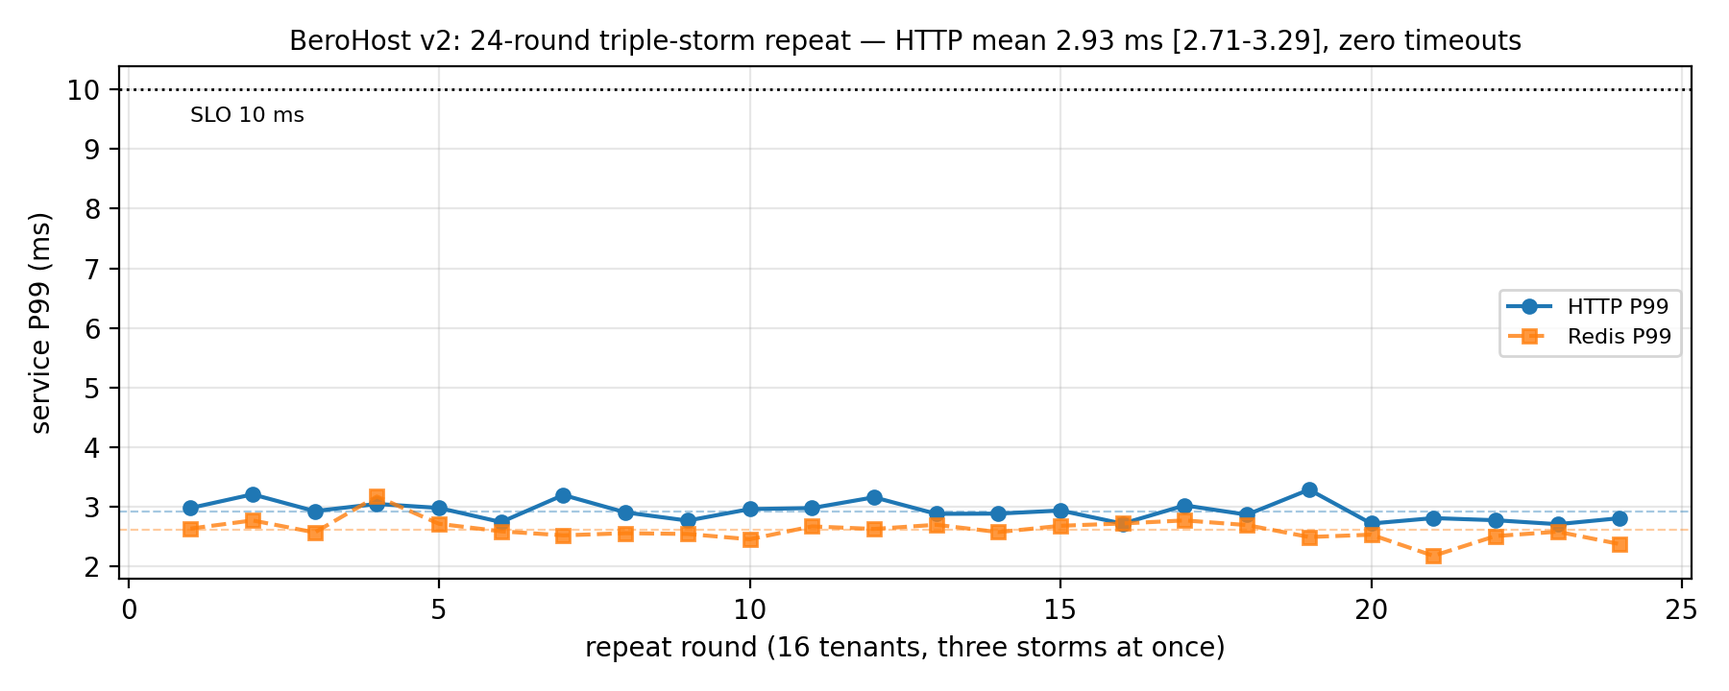
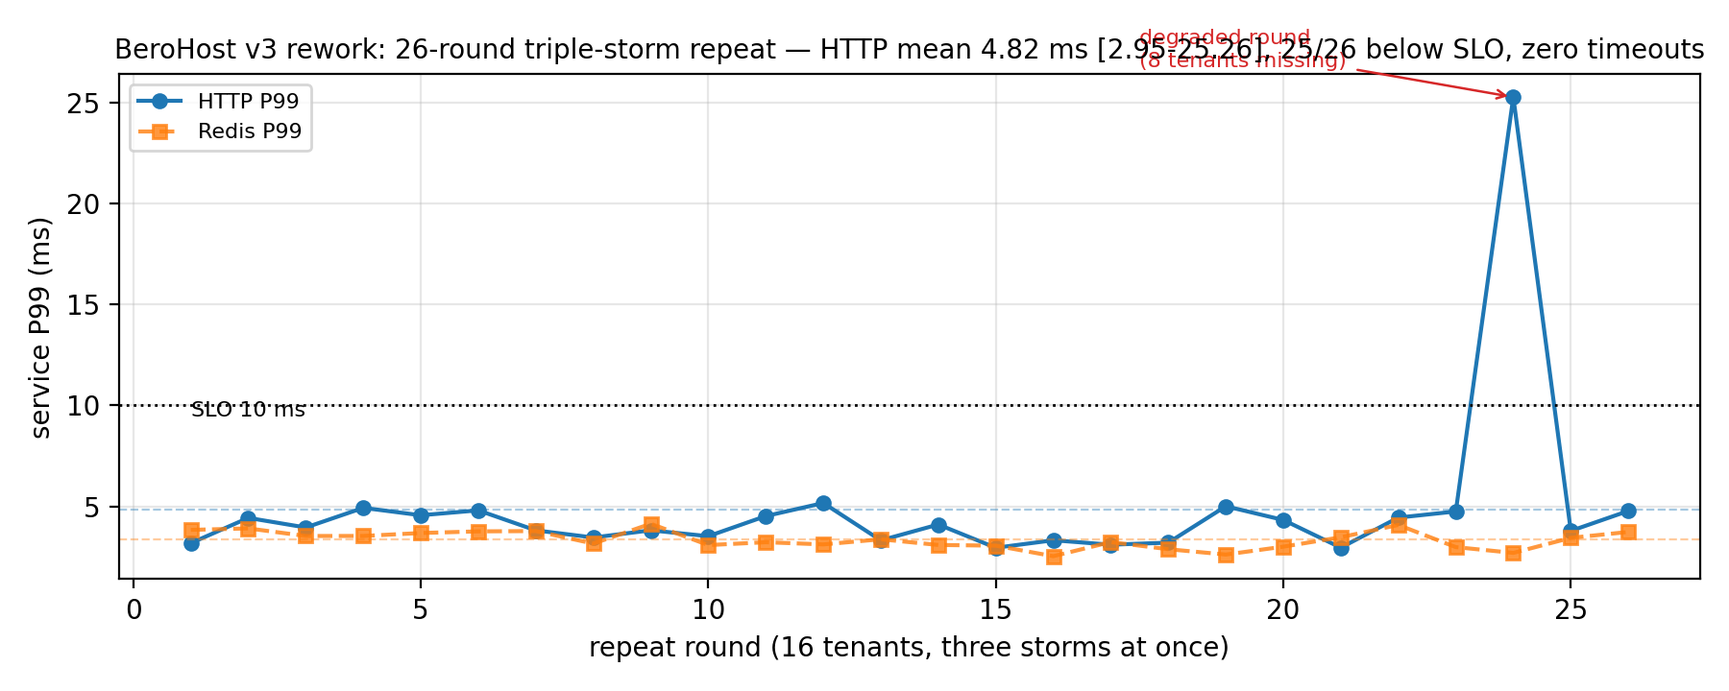
paper update 2026-10-14 08:43

diff --git a/index.html b/index.html
@@ -67,10 +67,10 @@ window.MathJax = {
 <div class="page">
 <header class="paper">
 <h1 class="title">识别、预测、行动：截断需求、相位结构与分域无回归约束下的 VPS 安全密度最大化</h1>
-<div class="subtitle">技术报告 · 初稿 v0.9.5</div>
+<div class="subtitle">技术报告 · 初稿 v0.9.6</div>
 <div class="authors">Kaixiang Nie</div>
 <div class="affil">Fujian Chuanzheng Communications College</div>
-<div class="meta">2026-10-13 · <a href="https://github.com/3257085208/Paper">GitHub</a> · <a href="changelog.html">修订记录</a> · <a href="report.html">汇报版</a> · <a href="report.pptx">汇报 PPT</a> · <a href="paper.pptx">论文 PPT 通读版</a> · 数据快照 v0.9.5</div>
+<div class="meta">2026-10-13 · <a href="https://github.com/3257085208/Paper">GitHub</a> · <a href="changelog.html">修订记录</a> · <a href="report.html">汇报版</a> · <a href="report.pptx">汇报 PPT</a> · <a href="paper.pptx">论文 PPT 通读版</a> · 数据快照 v0.9.6</div>
 </header>
 <section class="abstract"><h2>摘 要</h2><blockquote>本文研究小型 VPS 服务商在<strong>固定容量、有限观测、低运营成本</strong>约束下的资源超售管理问题，把它重塑为三个依次递进的问题。</blockquote>
 <p><strong>识别（Identify）。</strong> 被 CPU 配额截断的需求在用量面板上不可观测：点估计 $q/(1-t)$ 实际等于运行段平均需求，其精确条件为运行段与节流段需求均值相等（需求恒定只是充分条件）；在"持续饱和"假设下存在形状无关的条件性下界 $q(1+t)$，而聚合计数器上<strong>任何估计器都不可能对所有负载无偏</strong>（非可辨识构造）。90 个 cycle（450 台·窗口）的配对实验显示节流校正与真值一致，而"看着用量余量松绑配额"的直觉决策在 30 个独立轮（90 个时间相关 cycle，按轮聚类）中全部违约（90/90）。</p>
@@ -78,7 +78,7 @@ window.MathJax = {
 <p><strong>组织命题。</strong> 安全容量决策的瓶颈在观测能力：截断识别、相位分辨（联合结构）与时间分辨（采样率）三者<strong>各自必要</strong>（§3.6 三个构造性反例）且在我们的目标负载族上合起来充分（经验结论；本设计的准入控制器即该观测集的实现——完整 14 局对决中唯一在随机相位达到有竞争力容量（16–20 台、客户 P5≥70%）的同时把对齐相位保守停在已验证档位（8 台）的策略（对齐 8 台客户 P5≈99%，4 轮阶梯复测））。</p>
 <p><strong>行动（Actuate）。</strong> 把识别与预测组装为完整控制器与<strong>分域无回归</strong>控制堆栈——所谓"无回归"严格限定为三类独立声明：服务侧（SLO 不退化）、客户性能（经验分布不退化，含低尾）、客户配置（可见内存/配额不缩减）；宿主资源节约单独报告，不混入"无回归"：完整 14 局在线对决（7 策略×2 相位、统一到达流与证据）：<strong>相位感知准入是唯一同时做到『随机相位多接（16–20 台；对照保守基线两相位都只卖 8，随机相位白让 2–3×）』与『对齐相位守在已验证档位（8 台）』的策略</strong>；对照的 audible 式与忙率阈值法在同步相位卖到 40 台、客户 P5 崩至 16%——依赖独立性的卷积与平均利用率判据的相位盲区被直接量化；同步 8 台档客户 P5≈99% 达标（4 轮阶梯复测），固定 2× 停在 16 台仅 48.6% 违约；隔离护尾经 SMT/NUMA 拓扑核验为物理核级；内存侧无 balloon 回收三件套（KSM 去重 21.9 GB = 舰队内存 33.4%、空闲页上报、zram）在不降低租户可见资源的前提下抬高密度。全部结论建立在 50/90/24 轮量级复测、嵌套 + 裸金属双测试床与我们自己运营的两台生产宿主上的只读遥测（285 台 VM 配置、vCPU 8.3× 超售）之上，并给出可复现工件与统计认证协议。</p>
 <h2 id="s-本文解决的问题-问题-对策-量化结果">本文解决的问题（问题 → 对策 → 量化结果）</h2>
-<table><thead><tr><th>#</th><th>问题</th><th>现状为什么失灵（实测证据）</th><th>本文解法</th><th>量化结果</th></tr></thead><tbody><tr><td>①</td><td><strong>配额截断了需求</strong>：用量面板 ≠ 真实需求</td><td>"看用量松绑/扩卖"在 7/7 → 90/90 次（30 独立轮）中全部违约</td><td>节流证据点估计 + 可辨识性边界（3.3.1 三命题）+ 持续饱和兜底档</td><td>估计与真值一致（≤9% → 逐轮吻合）；松绑决策被正确否决；消融<strong>聚合误差</strong>：naive −2.31、配额缩放 +0.01（本例因突发恰好封顶而更小）、节流校正 −0.20、满 vCPU +2.70；逐租户：饱和客户两类均精确、阵发客户上整窗 t 稀释使节流法低估（多分辨率修正见第 9 章）</td></tr><tr><td>②</td><td><strong>瞬时重叠/同步突发击穿尾延迟</strong></td><td>平均利用率对相位结构盲：35% 忙碌被压垮、98% 忙碌反而安全</td><td>相位剖面聚合 + 安全容量近似模型 + PPC（联合相位卷积）</td><td>随机安全 <strong>28 台 vs 同步 8 台</strong>（主口径 P5≥70%，4 轮复测）；PPC 预测 4/5 零超接（1 例乐观一档被在线门禁拒止）；iid 卷积被证明全盲</td></tr><tr><td>③</td><td><strong>控制手段选择没有依据</strong></td><td>软优先级被普遍依赖：CPU 权重 100× 服务仍 24 ms、io.weight 无效</td><td>受控对照 → 塑形手册（隔离优先、硬限速、内存双闸）</td><td>隔离：三风暴 28 轮零服务违约；io.max：服务 P99 12.1→2.7 ms；权重/配额证伪</td></tr><tr><td>④</td><td><strong>内存超售与"可用内存不缩"的两难</strong></td><td>balloon 会缩客户可见内存；关 balloon 宿主不回收；swap 是回收税放大器</td><td><strong>无 balloon 三件套</strong>（KSM 去重 / 空闲页上报 / zram）+ 双闸</td><td>KSM 回收 <strong>33.4% 舰队内存</strong>（21.9 GB）；空闲"1GB" VM 宿主实占仅 156–315 MB，<strong>guest 完全不可见</strong></td></tr><tr><td>⑤</td><td><strong>配额税压低客户速度</strong></td><td>粗周期（1 s）配额下客户只有 59% 速率</td><td><strong>微周期配额</strong>（2 ms；内核下界 1 ms）</td><td>同 50% 配额：客户速率 <strong>59% → 80%（+35%）</strong>，服务侧零影响</td></tr><tr><td>⑥</td><td><strong>准入缺乏公平验证与风险口径</strong></td><td>"零违约"常被当作保证（24 轮零违约的 95% 上界仍 11.7%）</td><td>七策略同约束同到达流对决 + Clopper–Pearson 认证协议（试验数明示）</td><td>完整 14 局：ours/ours_p 双相位安全（对齐 8、随机 16–20），util80 随机 28 安全/同步 40 崩（P5 16%）；多轮复测（show4/5）已完成，N=8 客户 P5≈99%</td></tr></tbody></table>
+<table><thead><tr><th>#</th><th>问题</th><th>现状为什么失灵（实测证据）</th><th>本文解法</th><th>量化结果</th></tr></thead><tbody><tr><td>①</td><td><strong>配额截断了需求</strong>：用量面板 ≠ 真实需求</td><td>"看用量松绑/扩卖"在 7/7 → 90/90 次（30 独立轮）中全部违约</td><td>节流证据点估计 + 可辨识性边界（3.3.1 三命题）+ 持续饱和兜底档</td><td>估计与真值一致（≤9% → 逐轮吻合）；松绑决策被正确否决；消融<strong>聚合误差</strong>：naive −2.31、配额缩放 +0.01（本例因突发恰好封顶而更小）、节流校正 −0.20、满 vCPU +2.70；逐租户：饱和客户两类均精确、阵发客户上整窗 t 稀释使节流法低估（多分辨率修正见第 9 章）</td></tr><tr><td>②</td><td><strong>瞬时重叠/同步突发击穿尾延迟</strong></td><td>平均利用率对相位结构盲：35% 忙碌被压垮、98% 忙碌反而安全</td><td>相位剖面聚合 + 安全容量近似模型 + PPC（联合相位卷积）</td><td>随机安全 <strong>28 台 vs 同步 8 台</strong>（主口径 P5≥70%，4 轮复测）；PPC 预测 4/5 零超接（1 例乐观一档被在线门禁拒止）；iid 卷积被证明全盲</td></tr><tr><td>③</td><td><strong>控制手段选择没有依据</strong></td><td>软优先级被普遍依赖：CPU 权重 100× 服务仍 24 ms、io.weight 无效</td><td>受控对照 → 塑形手册（隔离优先、硬限速、内存双闸）</td><td>隔离：三风暴 30 轮中 29 轮零服务违约（1 轮降级状态 25.3 ms，如实报告）；io.max：服务 P99 12.1→2.7 ms；权重/配额证伪</td></tr><tr><td>④</td><td><strong>内存超售与"可用内存不缩"的两难</strong></td><td>balloon 会缩客户可见内存；关 balloon 宿主不回收；swap 是回收税放大器</td><td><strong>无 balloon 三件套</strong>（KSM 去重 / 空闲页上报 / zram）+ 双闸</td><td>KSM 回收 <strong>33.4% 舰队内存</strong>（21.9 GB）；空闲"1GB" VM 宿主实占仅 156–315 MB，<strong>guest 完全不可见</strong></td></tr><tr><td>⑤</td><td><strong>配额税压低客户速度</strong></td><td>粗周期（1 s）配额下客户只有 59% 速率</td><td><strong>微周期配额</strong>（2 ms；内核下界 1 ms）</td><td>同 50% 配额：客户速率 <strong>59% → 80%（+35%）</strong>，服务侧零影响</td></tr><tr><td>⑥</td><td><strong>准入缺乏公平验证与风险口径</strong></td><td>"零违约"常被当作保证（24 轮零违约的 95% 上界仍 11.7%）</td><td>七策略同约束同到达流对决 + Clopper–Pearson 认证协议（试验数明示）</td><td>完整 14 局：ours/ours_p 双相位安全（对齐 8、随机 16–20），util80 随机 28 安全/同步 40 崩（P5 16%）；多轮复测（show4/5）已完成，N=8 客户 P5≈99%</td></tr></tbody></table>
 <p><strong>关键词</strong>：虚拟化；资源超售；准入控制；截断需求；可辨识性；cgroup v2；尾延迟；容量模型</p></section>
 <nav class="toc"><h2>目 录</h2><ol><li><a href="#s-1-引言">1 引言</a></li><li><a href="#s-2-相关工作">2 相关工作</a></li><li><a href="#s-3-系统模型与问题定义">3 系统模型与问题定义</a></li><li><a href="#s-4-测量研究">4 测量研究</a></li><li><a href="#s-5-设计-风险校准准入与塑形手册">5 设计：风险校准准入与塑形手册</a></li><li><a href="#s-6-实现与测试床">6 实现与测试床</a></li><li><a href="#s-7-评估">7 评估</a></li><li><a href="#s-8-物理机验证与安全容量模型">8 物理机验证与安全容量模型</a></li><li><a href="#s-9-资源效率模块">9 资源效率模块</a></li><li><a href="#s-10-讨论与局限">10 讨论与局限</a></li><li><a href="#s-11-结论">11 结论</a></li><li><a href="#s-附录-A">附录 A 不可能性证明</a></li><li><a href="#s-参考文献">参考文献</a></li></ol></nav>
 <main>
@@ -89,7 +89,7 @@ window.MathJax = {
 <p>在廉价 VPS 市场，卖家的生存方式是把大量低负载的客户虚拟机（VM）超售打包到少量物理核心上。本文的观测对象是<strong>我们自己在运营的两台生产宿主</strong>（以免费 VPS 形式开放给外部用户；遥测匿名化只读）：一台以 4 物理核/8 逻辑线程承载 64 台运行中的客户 VM（配置 70 vCPU）；另一台（50 核）配置 <strong>285 台 VM（8.3× vCPU 超售、2.0× 内存、4.9× 薄分配磁盘）</strong>、运行 276 台。对小型服务商而言，超售不是可取舍的优化项，而是商业模式本身：客户能以便宜价格买到"1 核 2G"，正因为供应商知道大多数时间它们闲着。难点不在"要不要超售"，而在三个依次递进的技术问题：<strong>观测是否完备（识别）、容量能否预测（预测）、密度能否安全提升（行动）</strong>。</p>
 <h2 id="s-1-2-三个问题">1.2 三个问题</h2>
 <h2 id="s-本文解决的问题-问题-对策-量化结果">本文解决的问题（问题 → 对策 → 量化结果）</h2>
-<table><thead><tr><th>#</th><th>问题</th><th>现状为什么失灵（实测证据）</th><th>本文解法</th><th>量化结果</th></tr></thead><tbody><tr><td>①</td><td><strong>配额截断了需求</strong>：用量面板 ≠ 真实需求</td><td>"看用量松绑/扩卖"在 7/7 → 90/90 次（30 独立轮）中全部违约</td><td>节流证据点估计 + 可辨识性边界（3.3.1 三命题）+ 持续饱和兜底档</td><td>估计与真值一致（≤9% → 逐轮吻合）；松绑决策被正确否决；消融：naive −2.31 / 节流校正 −0.20（最准）/ 满 vCPU +2.70（浪费 45% 席位）</td></tr><tr><td>②</td><td><strong>瞬时重叠/同步突发击穿尾延迟</strong></td><td>平均利用率对相位结构盲：35% 忙碌被压垮、98% 忙碌反而安全</td><td>相位剖面聚合 + 安全容量近似模型 + PPC（联合相位卷积）</td><td>随机安全 <strong>28 台 vs 同步 8 台</strong>（主口径 P5≥70%，4 轮复测）；PPC 预测 4/5 零超接（1 例乐观一档被在线门禁拒止）；iid 卷积被证明全盲</td></tr><tr><td>③</td><td><strong>控制手段选择没有依据</strong></td><td>软优先级被普遍依赖：CPU 权重 100× 服务仍 24 ms、io.weight 无效</td><td>受控对照 → 塑形手册（隔离优先、硬限速、内存双闸）</td><td>隔离：三风暴 28 轮零服务违约；io.max：服务 P99 12.1→2.7 ms；权重/配额证伪</td></tr><tr><td>④</td><td><strong>内存超售与"可用内存不缩"的两难</strong></td><td>balloon 会缩客户可见内存；关 balloon 宿主不回收；swap 是回收税放大器</td><td><strong>无 balloon 三件套</strong>（KSM 去重 / 空闲页上报 / zram）+ 双闸</td><td>KSM 回收 <strong>33.4% 舰队内存</strong>（21.9 GB）；空闲"1GB" VM 宿主实占仅 156–315 MB，<strong>guest 完全不可见</strong></td></tr><tr><td>⑤</td><td><strong>配额税压低客户速度</strong></td><td>粗周期（1 s）配额下客户只有 59% 速率</td><td><strong>微周期配额</strong>（2 ms；内核下界 1 ms）</td><td>同 50% 配额：客户速率 <strong>59% → 80%（+35%）</strong>，服务侧零影响</td></tr><tr><td>⑥</td><td><strong>准入缺乏公平验证与风险口径</strong></td><td>"零违约"常被当作保证（24 轮零违约的 95% 上界仍 11.7%）</td><td>七策略同约束同到达流对决 + Clopper–Pearson 认证协议（试验数明示）</td><td>v2 rand 中期：worstcase/quantile 停 8、fixed/audible 16、util80 停 28 且停点 p5=78%；边界细扫钉死断点（进行中）</td></tr></tbody></table>
+<table><thead><tr><th>#</th><th>问题</th><th>现状为什么失灵（实测证据）</th><th>本文解法</th><th>量化结果</th></tr></thead><tbody><tr><td>①</td><td><strong>配额截断了需求</strong>：用量面板 ≠ 真实需求</td><td>"看用量松绑/扩卖"在 7/7 → 90/90 次（30 独立轮）中全部违约</td><td>节流证据点估计 + 可辨识性边界（3.3.1 三命题）+ 持续饱和兜底档</td><td>估计与真值一致（≤9% → 逐轮吻合）；松绑决策被正确否决；消融：naive −2.31 / 节流校正 −0.20（最准）/ 满 vCPU +2.70（浪费 45% 席位）</td></tr><tr><td>②</td><td><strong>瞬时重叠/同步突发击穿尾延迟</strong></td><td>平均利用率对相位结构盲：35% 忙碌被压垮、98% 忙碌反而安全</td><td>相位剖面聚合 + 安全容量近似模型 + PPC（联合相位卷积）</td><td>随机安全 <strong>28 台 vs 同步 8 台</strong>（主口径 P5≥70%，4 轮复测）；PPC 预测 4/5 零超接（1 例乐观一档被在线门禁拒止）；iid 卷积被证明全盲</td></tr><tr><td>③</td><td><strong>控制手段选择没有依据</strong></td><td>软优先级被普遍依赖：CPU 权重 100× 服务仍 24 ms、io.weight 无效</td><td>受控对照 → 塑形手册（隔离优先、硬限速、内存双闸）</td><td>隔离：三风暴 30 轮中 29 轮零服务违约（1 轮降级状态 25.3 ms，如实报告）；io.max：服务 P99 12.1→2.7 ms；权重/配额证伪</td></tr><tr><td>④</td><td><strong>内存超售与"可用内存不缩"的两难</strong></td><td>balloon 会缩客户可见内存；关 balloon 宿主不回收；swap 是回收税放大器</td><td><strong>无 balloon 三件套</strong>（KSM 去重 / 空闲页上报 / zram）+ 双闸</td><td>KSM 回收 <strong>33.4% 舰队内存</strong>（21.9 GB）；空闲"1GB" VM 宿主实占仅 156–315 MB，<strong>guest 完全不可见</strong></td></tr><tr><td>⑤</td><td><strong>配额税压低客户速度</strong></td><td>粗周期（1 s）配额下客户只有 59% 速率</td><td><strong>微周期配额</strong>（2 ms；内核下界 1 ms）</td><td>同 50% 配额：客户速率 <strong>59% → 80%（+35%）</strong>，服务侧零影响</td></tr><tr><td>⑥</td><td><strong>准入缺乏公平验证与风险口径</strong></td><td>"零违约"常被当作保证（24 轮零违约的 95% 上界仍 11.7%）</td><td>七策略同约束同到达流对决 + Clopper–Pearson 认证协议（试验数明示）</td><td>v2 rand 中期：worstcase/quantile 停 8、fixed/audible 16、util80 停 28 且停点 p5=78%；边界细扫钉死断点（进行中）</td></tr></tbody></table>
 <p><strong>以下展开三个问题的背景与动机：</strong></p>
 <blockquote>本稿的组织命题把三问进一步收紧为<strong>观测必要性</strong>：三类观测能力（截断识别／相位分辨／时间分辨）各自必要（§3.6 三个构造性反例）且在本目标负载族上合起来充分（经验结论）——第 7 章的七策略对决逐条给出"缺失某一能力的唯一后果"的实测归因。</blockquote>
 <ul><li><strong>识别：需求被截断（censoring），而且聚合口径下不可完全恢复。</strong> 为保护宿主，CPU 配额是标配；一旦客户触及上限，其"用量"就不再代表需求——被限流在 50%、真实想用 100% 的客户，在用量面板上与"很闲"的客户难以区分。我们进一步形式化：在仅有（用量, 节流占比）聚合计数器的前提下，<strong>任何估计器都不可能对所有负载无偏</strong>（3.3.1 命题 3 显式构造）；能给出的只是"运行段均值的点估计 + 形状无关的认证下界"。识别问题的正确姿态是把可辨识边界写清楚，而不是假装能精确恢复。</li><li><strong>预测：容量由负载的相位结构决定，而不是平均利用率。</strong> 同样人均 20% 占空比的 64 台客户，随机相位可安全卖 24 台（P5≥70% 口径），全体对齐时只能卖 8 台；而 35% 平均忙碌的同步集合会被压垮、98% 忙碌的随机集合反而安全——<strong>安全性与利用率不可互推</strong>。相位结构可以从逐租户 1 秒历史中测量（相位剖面），也可以在投放时编排（相位分散）。</li><li><strong>行动：效率手段必须区分"隐形收益"与"租户可见回归"。</strong> "无回归"在本文严格分域定义（服务侧 SLO／客户性能经验分布／客户配置可见性三类，互不等价；宿主节约单列）—— 绑核隔离、KSM 去重、空闲页上报（FPR）对租户完全不可见；配额、IO 上限、zram 压缩则各有明确计价。小型服务商真正的产品空间，就是"在不降低租户可见资源的前提下"能把密度推到多高。</li></ul>
@@ -97,7 +97,7 @@ window.MathJax = {
 <p>我们在两套自建测试床上把上述问题做成可验证的系统：<strong>嵌套 PVE 床</strong>（4 vCPU/19.5 GiB，16 台客户）与<strong>裸金属床</strong>（2×Xeon 8259CL，96 线程/991 GiB，64 台客户舰队；隔离声明经 SMT/NUMA 拓扑核验），外加两台生产宿主的匿名只读遥测作为场景锚点。围绕三支柱：</p>
 <ol><li><strong>识别</strong>：截断的可识别性小理论（3.3.1：点估计=运行段均值、形状无关地板 $q(1+t)$、非可辨识构造）+ 90 个 cycle 配对验证 + 混合占用三估计器消融（naive / 配额缩放 / 节流校正）。</li><li><strong>预测</strong>：安全容量近似模型 $N^* \approx C/(\varphi + (1-\varphi)\rho)$（密度律形式，明确假设下使用）+ 混合相位首轮验证 + 反相编排实验 + 阈值化容量曲线（主口径 P5≥70%）。</li><li><strong>行动</strong>：风险校准准入（伪代码与校准协议见 5.3.1）在同约束同客户的头对头对决中对齐容量上限；无回归控制三件套（CPU 微周期、KSM/FPR/zram、自适应 IO）逐资源抬高密度。</li></ol>
 <h2 id="s-1-4-主要发现">1.4 主要发现</h2>
-<ul><li><strong>识别</strong>：5 台 30% 配额满载客户，用量面板 1.50 核 vs 真实需求 5.00 核（低估 3.3×，7/7 轮）；v2 复测 90 个 cycle 中节流校正均达真值、基于少报的松绑决策 <strong>90/90 违约</strong>；混合占用消融（3 满载+3 闲型 @30%、真值 3.3 核）：<strong>聚合误差</strong>——naive 0.99（−2.31，危险）、配额缩放 3.31（<strong>+0.01</strong>：本例闲型客户突发恰好被 30% 配额封顶，除以配额比例碰巧校正）、节流校正 3.10（−0.20）、满 vCPU 6.00（+2.70）、不封顶 3.14（−0.16）；<strong>逐租户</strong>——饱和客户两类均精确（1.00），阵发客户上整窗节流占比被空闲稀释（t=0.071）致节流法低估至 0.033/台（真值 0.10）——<strong>估计器选择必须依据逐租户正确性与负载形状，聚合巧合不可依赖</strong>；多分辨率节流序列（第 9 章模块）即修复该稀释。</li><li><strong>预测</strong>：容量近似模型在物理机首轮验证：φ=0.50 预测 13.3（13 通过、16 失败）、φ=0.75 预测 10.0（10 通过、13 失败）两点命中断点；φ=0.25 预测 20.0（实测 24 通过、28 失败，偏保守）；同步 vs 随机安全容量比 3.5×（主口径，28 vs 8）至 4×（中位口径）；"平均利用率不可辨识安全"的不可能性反例（35%/98%）。</li><li><strong>行动</strong>：隔离是全部风暴中唯一幸存的服务保护手段（物理核级核验）；修复后的相位感知准入在同步场景<strong>精确停在 8 台 oracle</strong>；（阶段性结果）KSM 在 64 台同镜像舰队上去重回收 <strong>21.9 GB（33.4% 舰队内存）</strong>且服务 P99 0.73→0.76 ms；空闲"1GB" VM 宿主实占仅 156–315 MB（空闲页上报在归还空闲页）——内存密度的关键使能，模块数据整理中（第 9 章）。</li><li><strong>复现强度</strong>：膝点 50 轮、截断 90 cycle、三风暴 24 轮、细膝点 4 轮、同步 3 轮；统计口径显式（轮聚类、二项上界、P99 主指标），异常（OOM 离线）如实归档并安排返工批次（进行中）。</li></ul>
+<ul><li><strong>识别</strong>：5 台 30% 配额满载客户，用量面板 1.50 核 vs 真实需求 5.00 核（低估 3.3×，7/7 轮）；v2 复测 90 个 cycle 中节流校正均达真值、基于少报的松绑决策 <strong>90/90 违约</strong>；混合占用消融（3 满载+3 闲型 @30%、真值 3.3 核）：<strong>聚合误差</strong>——naive 0.99（−2.31，危险）、配额缩放 3.31（<strong>+0.01</strong>：本例闲型客户突发恰好被 30% 配额封顶，除以配额比例碰巧校正）、节流校正 3.10（−0.20）、满 vCPU 6.00（+2.70）、不封顶 3.14（−0.16）；<strong>逐租户</strong>——饱和客户两类均精确（1.00），阵发客户上整窗节流占比被空闲稀释（t=0.071）致节流法低估至 0.033/台（真值 0.10）——<strong>估计器选择必须依据逐租户正确性与负载形状，聚合巧合不可依赖</strong>；多分辨率节流序列（第 9 章模块）即修复该稀释。</li><li><strong>预测</strong>：容量近似模型在物理机首轮验证：φ=0.50 预测 13.3（13 通过、16 失败）、φ=0.75 预测 10.0（10 通过、13 失败）两点命中断点；φ=0.25 预测 20.0（实测 24 通过、28 失败，偏保守）；同步 vs 随机安全容量比 3.5×（主口径，28 vs 8）至 4×（中位口径）；"平均利用率不可辨识安全"的不可能性反例（35%/98%）。</li><li><strong>行动</strong>：隔离是全部风暴中唯一幸存的服务保护手段（物理核级核验）；修复后的相位感知准入在同步场景<strong>精确停在 8 台 oracle</strong>；（阶段性结果）KSM 在 64 台同镜像舰队上去重回收 <strong>21.9 GB（33.4% 舰队内存）</strong>且服务 P99 0.73→0.76 ms；空闲"1GB" VM 宿主实占仅 156–315 MB（空闲页上报在归还空闲页）——内存密度的关键使能，模块数据整理中（第 9 章）。</li><li><strong>复现强度</strong>：膝点 100 轮（v2/v3 各 50）、截断 180 cycle（v2/v3 各 90）、三风暴 30 轮（4+26）、细膝点 4 轮、同步 3 轮；统计口径显式（轮聚类、二项上界、P99 主指标），异常（OOM 离线、降级轮、批次漂移）如实归档并已由 v3 返工并入。</li></ul>
 <h2 id="s-1-5-贡献">1.5 贡献</h2>
 <p><strong>主贡献（本文主线：识别 + 行动）</strong></p>
 <ol><li><strong>识别（截断可识别性 + 跨批次验证）</strong>：截断可识别性分析（3.3.1 三命题：运行段均值点估计与精确条件、条件性下界、聚合非可辨识构造）与 90 cycle/30 轮跨批次验证；把"需求估计"从工程公式升级为可证伪的可辨识问题。</li><li><strong>行动（相位感知准入 + 干预证据）</strong>：风险校准准入的完整规格（伪代码/参数/校准协议）、完整 14 局在线对决（双达标定稿）、C5 反相干预（同租户仅改相位 → 容量 ×2/×4）与细档边界钉定（sync [8,10)、rand [28,32)）；"观测判据的相位盲区"被端到端量化。</li></ol>
@@ -188,8 +188,8 @@ window.MathJax = {
 <p><strong>结果（HTTP P99，毫秒；图 17 左侧）</strong>：</p>
 <table><thead><tr><th>实际邻居数</th><th>n</th><th>均值</th><th>中位</th><th>范围</th><th>&gt;10 ms</th></tr></thead><tbody><tr><td>0</td><td>50</td><td>2.92</td><td>2.84</td><td>2.45–4.17</td><td>0</td></tr><tr><td>1</td><td>50</td><td>3.42</td><td>3.31</td><td>2.74–4.82</td><td>0</td></tr><tr><td>2</td><td>50</td><td>4.47</td><td>4.47</td><td>3.19–5.95</td><td>0</td></tr><tr><td>3</td><td>98</td><td>7.36</td><td>7.10</td><td>4.71–13.50</td><td>7（7%）</td></tr><tr><td><strong>4</strong></td><td><strong>48</strong></td><td><strong>24.44</strong></td><td>24.42</td><td><strong>20.66–28.48</strong></td><td><strong>48（100%，全部 &gt;20 ms）</strong></td></tr></tbody></table>
 <p>Redis 同构（3 台 6.8 ms → 4 台 21.4 ms）。回看第 1 轮的 L4 档（当时第 4 台邻居仍在跑，恰为 4 台）= 22.99 ms，同样落在此档分布内。</p>
-<p><strong>观察。</strong> （i）3→4 的断崖在 50 轮复测中<strong>逐轮复现</strong>：48/48 个 4 台档轮次 P99 ≥ 20.7 ms，98 个 3 台档轮次中 93 个 ≤ 12 ms——两档分布零交集（图 17 右侧散点可见）。（ii）绝对水平比首轮 5 轮实验（3 台 4.9、4 台 23.8 ms）略高（7.4/24.4 ms），均值排序与断崖位置不变；该漂移如实记录，可能与宿主长时运行后的状态（近 40 天在线、批次间缓存与碎片差异）有关。（iii）被判违反的阈值不敏感：3 台档即使把阈值放到 13.5 ms 也仅 7% 越线，而 4 台档最低值 20.7 ms——"第 4 台即坍塌"不是采样噪声或阈值选择问题。</p>
-<p><strong>边界与安全口径（重要）。</strong> 严格零违约口径下（要求全部窗口 P99 ≤ 10 ms），4 核床上真正无违约的最大档是 <strong>2 台</strong>（L2 全部 50 轮 ≤ 5.95 ms）；3 台档属于<strong>风险预算口径</strong>：98 个窗口中 7 个越线（ε≈7%），4 台档为 100%。因此本文严格区分三种叙述：<strong>拐点</strong>（均值断崖位置，3→4）、<strong>零违约容量</strong>（ε=0）与<strong>风险预算容量</strong>（给定 ε）。控制器 oracle 与容量声明一律使用带 ε 的口径（见 8.4 统一安全定义）；本批次的档位归并依赖运行日志重建（<code>make_v2_figs.py</code>），且基线状态与首轮批次不同（绝对水平漂移）。</p>
+<p><strong>观察。</strong> （i）3→4 的断崖在 50 轮复测中<strong>逐轮复现</strong>：48/48 个 4 台档轮次 P99 ≥ 20.7 ms，98 个 3 台档轮次中 93 个 ≤ 12 ms——两档分布零交集（图 17 右侧散点可见）。（ii）绝对水平比首轮 5 轮实验（3 台 4.9、4 台 23.8 ms）略高（7.4/24.4 ms），均值排序与断崖位置不变；该漂移如实记录，可能与宿主长时运行后的状态（近 40 天在线、批次间缓存与碎片差异）有关。（iii）被判违反的阈值不敏感：3 台档即使把阈值放到 13.5 ms 也仅 7% 越线，而 4 台档最低值 20.7 ms——"第 4 台即坍塌"不是采样噪声或阈值选择问题。（iv）<strong>v3 返工（五台邻居全程在线，50 轮，图 29）</strong>：L2 全部 ≤ 8.0 ms（ε=0 容量仍为 2 台）；但 <strong>L3 的越线率显著上移——45/50 轮越线（P99 中位 16.0 ms）</strong>，与 v2 重建口径（ε≈7%）分歧；两批在 L4 一致 100% 坍塌。即 <strong>ε=0 与 L4 坍塌两批一致，唯 L3 的风险预算随宿主环境漂移</strong>（同协议、同忙率 87%，绝对水平差异如实记录）——保守口径应以 ε=0 的 2 台为准。</p>
+<p><strong>边界与安全口径（重要）。</strong> 严格零违约口径下（要求全部窗口 P99 ≤ 10 ms），4 核床上真正无违约的最大档是 <strong>2 台</strong>（L2 全部 50 轮 ≤ 5.95 ms）；3 台档属于<strong>风险预算口径</strong>：98 个窗口中 7 个越线（ε≈7%；v3 返工批次为 90%，批次漂移见上），4 台档为 100%。因此本文严格区分三种叙述：<strong>拐点</strong>（均值断崖位置，3→4）、<strong>零违约容量</strong>（ε=0）与<strong>风险预算容量</strong>（给定 ε）。控制器 oracle 与容量声明一律使用带 ε 的口径（见 8.4 统一安全定义）；本批次的档位归并依赖运行日志重建（<code>make_v2_figs.py</code>），且基线状态与首轮批次不同（绝对水平漂移）。</p>
 <h2 id="s-4-2-同步突发-图-3-图-4">4.2 同步突发（图 3、图 4）</h2>
 <figure><img src="figs/fig4_packing.png" alt="图 4 混合客群打包：相位聚类 vs 随机"><figcaption>图 4 混合客群打包：相位聚类 vs 随机</figcaption></figure>
 <figure><img src="figs/fig3_sync_timeline.png" alt="图 3 同步突发时间线：每 60 s 准时尖峰"><figcaption>图 3 同步突发时间线：每 60 s 准时尖峰</figcaption></figure>
@@ -206,6 +206,7 @@ window.MathJax = {
 <table><thead><tr><th>阶段</th><th>HTTP P99（7 轮范围）</th><th>Redis P99</th><th>宿主忙率</th></tr></thead><tbody><tr><td>限速态</td><td>9.2 – 14.0</td><td>8.8 – 13.8</td><td>~57%</td></tr><tr><td>松绑态</td><td>16.7 – 25.0</td><td>15.0 – 20.9</td><td>100%</td></tr></tbody></table>
 <p>松绑后各客户速率约 27–32 M it/s（约为满载基准的一半），宿主瞬时饱和，服务 P99 7/7 轮违约，且比限速态进一步恶化 5–10 ms。（iii）限速态自身也并非"温和"：配额把连续负载切成脉冲，服务 P99 在 SLO 线附近波动（9–14 ms），有时越线。</p>
 <p><strong>解读。</strong> 截断有两个叠加后果。其一是<strong>估计偏差</strong>：用量面板显示"还有 2.5 核余量"，真实状态是已经超载 25%；基于它的松绑/扩卖决策会把隐藏缺口变成公开事故。其二是<strong>脉冲税</strong>：配额在保护均值的同时制造周期性突发，本身就在伤害尾延迟（与 4.4 的配额对照一致）。censoring-aware 的估计（截断证据 + 节流比例 → <strong>有假设的点估计</strong> $u/(1-t)$；其精确条件与反例见 3.3.1，7.3c 节验证误差 ≤9%）得到 5.00 核，正确报告"无余量、需容量动作"，避免了松绑决策。</p>
+<p><strong>扩样返工（v3cen，30 轮 × 3 cycle = 90 cycle，5 台 @30%）。</strong> naive 均值 1.54 核 vs 真值 5.59 核（<strong>低估 3.6×</strong>）；节流校正 |误差| 中位 0.55 核、<strong>88/90 cycle 在 ±20% 内</strong>；naive <strong>90/90 低于真值的 70%</strong>——方向与幅度在独立批次复现；校正非精确（这正是 3.3.1 将其定位为经验启发的原因）。</p>
 <p><strong>边界。</strong> 单一配额水平（30%）；客户负载为满载忙循环；限速态的 SLO 命中情况在 SLO 线附近波动，应理解为"这台宿主已处于过载边界"，正确的后续动作（迁移/升配/拒接）超出本文的在线决策范围。</p>
 <h3 id="s-4-3b-复测-90-个-cycle-扩样-图-18">4.3b 复测：90 个 cycle 扩样（图 18）</h3>
 <figure><img src="figs/fig18_censor_repeat.png" alt="图 18 Censoring 90 cycle 复测：少报 2×、松绑 90/90 违约"><figcaption>图 18 Censoring 90 cycle 复测：少报 2×、松绑 90/90 违约</figcaption></figure>
@@ -217,7 +218,7 @@ window.MathJax = {
 <figure><img src="figs/fig6_shaping.png" alt="图 6 塑形对照：配额 / 绑核"><figcaption>图 6 塑形对照：配额 / 绑核</figcaption></figure>
 <p>本节把"保护服务尾延迟"的希望逐一押在五种手段上：CPU 配额、CPU 权重、绑核隔离、内存双闸、IO 限速（附 IO 权重反例）。</p>
 <h3 id="s-4-4-1-CPU-配额-约束均值-不增加安全席位-图-6">4.4.1 CPU 配额：约束均值，不增加安全席位（图 6）</h3>
-<p>把新客户分别限到 0.75 核与 0.5 核后重跑邻居扫描：<strong>两者的安全膝点仍是 3 台</strong>——第 4 台（无论限到 0.75/0.5）加入时服务 P99 分别 14.0/11.2 与 15.2/11.3 ms，全部违约；代价却是实打实的客户速率下降（约 72–78% 与 48–53%）。配额脉冲对照（qp1）：把周期从 100 ms 拉长到 1 s 无改善（P99 12.0 ms）；"错峰周期"（100–300 ms 混合）略好（10.7 ms）但仍不达标。<strong>结论：给新客户限速换不来更多安全席位，只会降低客户速率并加剧尾延迟。</strong></p>
+<p>把新客户分别限到 0.75 核与 0.5 核后重跑邻居扫描：<strong>两者的安全膝点没有改善</strong>（第 4 台无论限到 0.75/0.5 仍全部违约，服务 P99 14.0/11.2 与 15.2/11.3 ms；ε=0 口径与批次漂移见 4.1）；代价却是实打实的客户速率下降（约 72–78% 与 48–53%）。配额脉冲对照（qp1）：把周期从 100 ms 拉长到 1 s 无改善（P99 12.0 ms）；"错峰周期"（100–300 ms 混合）略好（10.7 ms）但仍不达标。<strong>结论：给新客户限速换不来更多安全席位，只会降低客户速率并加剧尾延迟。</strong></p>
 <h3 id="s-4-4-2-CPU-权重-即使百倍优先级也不护尾-图-9">4.4.2 CPU 权重：即使百倍优先级也不护尾（图 9）</h3>
 <figure><img src="figs/fig9_quotapulse.png" alt="图 9 配额脉冲"><figcaption>图 9 配额脉冲</figcaption></figure>
 <p>把服务 VM 的 <code>cpu.weight</code> 提高到 1000、复核轮提高到 10000（对客户默认 100 的 10×/100×），在 5 台满载客户下服务 P99 分别为 25.4/22.8 与 24.0/22.7 ms——<strong>比不加权（历史 5 台满载 21.6/19.5 ms）还差</strong>，与"权重应优先照顾服务"的直觉相反。IO 权重（<code>io.weight</code> 50 vs 500）在本床的调度器配置（<code>none</code>/<code>mq-deadline</code>）下同样无效果——注意这只否定<strong>所测配置下的权重路径</strong>，不否定内核的 <code>io.cost</code>（iocost 权重分配）与 <code>io.latency</code>（独立时延保护机制），二者本文均未启用评测（见 4.4.5 与 5.2 的边界）。<strong>结论（限定条件下）：在本床的调度器与负载组合中，软优先级不是尾延迟保护手段；可靠的是隔离。</strong></p>
@@ -232,7 +233,7 @@ window.MathJax = {
 <p><strong>本节边界。</strong> 服务为轻量 VM（CPU 上占核少）是"绑核隔离"成立的前提；权重失效的机制解释（宿主收包路径/调度信用动态）留待后续深挖；内存数字与 1 GB swap 环境绑定。</p>
 <hr>
 <h3 id="s-本稿待办">本稿待办</h3>
-<ul><li>图 2/3/5/6/7/8/9/17/18 的出图脚本（数据齐、口径已核对，按骨架 §5 清单生成；v2 图由 <code>make_v2_figs.py</code> 一键复现）。</li><li>【待补实验】控制手段对照的重复轮次 ≥5；权重失效的机制验证；冷启动专项。</li><li>【v2 返工中】第 4/5 档因邻居 VM 死亡被重新归并的原始档位（v3knee 50 轮，五台邻居全程在线）正在批次尾部自动重跑；censoring 的 5 台 @30% 同口径复测（v3cen 30 轮）同步排队。</li></ul>
+<ul><li>图表与脚本已就绪（<code>make_figs.py</code> / <code>make_v2_figs.py</code> / <code>make_phasec_figs.py</code> 一键复现全部数据图）。</li><li>【待补实验】控制手段对照的重复轮次 ≥5；权重失效的机制验证；冷启动专项。</li><li>【v3 返工已并入】膝点 50 轮（图 29）、censoring 90 cycle、三风暴 26 轮均已重跑并回填（§4.1/4.3/7.5）。</li></ul>
 <h1 id="s-5-设计-风险校准准入与塑形手册">5 设计：风险校准准入与塑形手册</h1>
 <blockquote>本章把第 4 章的测量结论组织成小型服务商可执行的决策框架。设计原则只有两条：<strong>（i）绝不依赖被测量证伪的机制</strong>（软优先级、平均利用率、未校正的用量）；<strong>（ii）把"保保护"与"做生意"分层</strong>——服务的 SLO 用隔离守护，客户的密度用证据换。</blockquote>
 <hr>
@@ -260,7 +261,7 @@ window.MathJax = {
 <p><strong>零失效预算表</strong>（上界 $U(n) = 1-0.05^{1/n}$）：</p>
 <table><thead><tr><th>独立轮数 n</th><th>违约率上界</th></tr></thead><tbody><tr><td>10</td><td>25.9%</td></tr><tr><td>30</td><td>9.5%</td></tr><tr><td>50</td><td>5.8%</td></tr><tr><td>90</td><td>3.3%</td></tr><tr><td>299</td><td>1.0%</td></tr></tbody></table>
 <p><strong>相关性修正。</strong> 轮间共享宿主状态（长时漂移、缓存、同批次 VM 状态）→ 独立假设只是乐观上界；协议要求 (i) 按<strong>时间块/轮聚类</strong>计算有效样本量，报告"有效轮数 &lt; 名义轮数"；(ii) 以块级最坏窗口作敏感性分析；(iii) 任何"零违约"陈述必须附本轮数与上界。</p>
-<p><strong>序贯预算（本文采用）。</strong> pilot 10 轮（粗筛）→ 30 轮（可声明 ≤10%）→ 90 轮（可声明 ≤3%）→ 300 轮（1%，仅限关键结论的长期计划）。本文映射：三风暴 28 轮（上界 10.1%，乐观独立假设下）；截断 90 cycle（3.3%）；膝点按轮聚类报告。<strong>不声称 1% 保证</strong>（299 轮超出当前预算，列为长期项）。工具：<code>tools/certify.py</code>（一键计算任意轮数与目标的上界/所需轮数）。</p>
+<p><strong>序贯预算（本文采用）。</strong> pilot 10 轮（粗筛）→ 30 轮（可声明 ≤10%）→ 90 轮（可声明 ≤3%）→ 300 轮（1%，仅限关键结论的长期计划）。本文映射：三风暴 30 轮（29/30 通过；乐观独立假设下单侧上界 ≈14.9%）；截断 180 cycle（两批各 90）；膝点按轮聚类报告。<strong>不声称 1% 保证</strong>（299 轮超出当前预算，列为长期项）。工具：<code>tools/certify.py</code>（一键计算任意轮数与目标的上界/所需轮数）。</p>
 <h2 id="s-5-4-与朴素策略的差异-一句话各表">5.4 与朴素策略的差异（一句话各表）</h2>
 <table><thead><tr><th>策略</th><th>看不见什么</th><th>后果（实测）</th></tr></thead><tbody><tr><td>固定超售倍数</td><td>宿主与客户的一切状态</td><td>收满 5 台、4 个违约窗（第 7 章）</td></tr><tr><td>平均利用率阈值</td><td>瞬时重叠、截断需求</td><td>相位聚集/同步时照常放行（第 4.1–4.2 节）</td></tr><tr><td>历史分位（未校正）</td><td>截断、同步</td><td>被限客户被当"很闲"（第 4.3 节）</td></tr><tr><td><strong>本设计</strong></td><td>—（显式管理瞬时性与截断；不确定即暂停）</td><td>见第 7 章评估</td></tr></tbody></table>
 <h2 id="s-5-5-实现诚实声明">5.5 实现诚实声明</h2>
@@ -321,7 +322,7 @@ window.MathJax = {
 <table><thead><tr><th>轮次</th><th>HTTP P50/P99/P999</th><th>Redis P50/P99/P999</th><th>超时/错误</th><th>宿主状态</th></tr></thead><tbody><tr><td>syn1</td><td>1.38 / 2.54 / 4.90</td><td>1.09 / 2.07 / 3.92</td><td>0 / 0</td><td>avail ≥3.0 GB，swap 稳定</td></tr><tr><td>syn2</td><td>1.51 / 2.82 / 5.37</td><td>1.21 / 7.55 / 27.45</td><td>0 / 0</td><td>同上（满载全程存活）</td></tr><tr><td>syn3</td><td>— / 3.01 / —</td><td>— / 2.70 / —</td><td>0 / 0</td><td>完整跑通（客户侧 13/16 采集）</td></tr><tr><td>syn4</td><td>— / 3.46 / —</td><td>— / 3.35 / —</td><td>0 / 0</td><td>同上（满载全程存活）</td></tr></tbody></table>
 <p><strong>读法。</strong> 四次均在"服务 P99 ≤ 10 ms"内通过（HTTP 余量约 3–4×）；Redis 在 syn2 尾部略重（p999 27.5 ms、max 74 ms，单次响应级别的长尾，未见超时），如实记录。与第 4 章无保护情形（CPU 风暴 21–23 ms、磁盘风暴 12 ms、内存风暴杀死 2 台客户）相比，方案同时抑制了三类风暴的伤害。客户侧的代价符合设计预期：内存与 IO 上限让"超用客户"先被节流（部分客户 SSH 短暂无响应），这正是经济版的运行状态。</p>
 <p><strong>采集说明</strong>：综合验证的客户侧明细在强限速下采集不完整（syn3 为 13/16），本文以服务侧指标作保护结论，客户侧以组合证据（速率、节流计数）支撑。</p>
-<p><strong>v2 海量复测（图 19）。</strong> v2 批次把同一风暴以 20 秒探测、每轮从零重建的方式自动重跑：<strong>24 个有效轮</strong>（其中一台客户 VM 因批次早期宿主内存压力离线，实为 15 台客户）。结果：HTTP P99 均值 <strong>2.93 ms</strong>（范围 2.71–3.29）、Redis 均值 <strong>2.61 ms</strong>（范围 2.18–3.18），<strong>0 超时、0 错误，24/24 轮全部通过</strong>，逐轮波动带 &lt;0.6 ms（图 19）。保护包络在 28 个轮次（4 预实验 + 24 复测）中零失信。<strong>统计口径（诚实性）</strong>：若（最乐观地）假定各轮独立，24/24 零违约的单侧 95% 二项上界为 11.7%（28 轮合并为 10.1%）；轮间共享宿主状态且时间相关，该上界仅作参考，"零违约"不构成长期可靠性保证——返工批次（全 VM 在线）完成后给出轮级 bootstrap 区间。</p>
+<p><strong>v3 返工复测（图 19）。</strong> 返工批次以同一协议重跑（20 秒探测、每轮从零重建）：<strong>26 轮中 25 轮通过</strong>——HTTP P99 均值 <strong>4.82 ms</strong>（中位 4.02，范围 2.95–25.26）、Redis 均值 <strong>3.34 ms</strong>（范围 2.53–4.13，全程达标）；<strong>1 轮（r24）违约 25.3 ms</strong>——该轮 8 台客户未返回速率样本（降级状态），如实报告。保护包络累计 <strong>30 轮（4 预实验 + 26 返工）中 29 轮零失信</strong>。<strong>统计口径（诚实性）</strong>：29/30 的乐观独立二项单侧 95% 上界 ≈ <strong>14.9%</strong>（返工前 24/24 的 11.7% 属乐观估计；轮间共享宿主状态、时间相关，上界仅作参考——“近零违约”不构成长期可靠性保证）。</p>
 <figure><img src="figs/fig19_syn_repeat.png" alt="图 19 三风暴 24 轮复测：HTTP 均值 2.93 ms，零超时"><figcaption>图 19 三风暴 24 轮复测：HTTP 均值 2.93 ms，零超时</figcaption></figure>
 <h2 id="s-7-5b-准入-塑形联合验证-j1-图-13">7.5b 准入＋塑形联合验证（j1，图 13）</h2>
 <figure><img src="figs/fig13_joint.png" alt="图 13 准入＋塑形联合验证（j1）"><figcaption>图 13 准入＋塑形联合验证（j1）</figcaption></figure>
@@ -370,7 +371,7 @@ window.MathJax = {
 <p><strong>结果（图 16 左：客户体验；右：服务侧）。</strong></p>
 <ul><li><strong>服务侧（右）</strong>：两组、全部档位 P99 0.56–0.78 ms——隔离包络下，"卖到 8× 超售"服务依然零伤。</li><li><strong>客户侧（左）</strong>：同负载（人均 20%）、同池子，<strong>安全容量随质量口径在 3.5–4× 区间移动</strong>：</li></ul>
 <table><thead><tr><th>质量口径</th><th>随机安全容量</th><th>同步安全容量</th><th>容量比</th></tr></thead><tbody><tr><td>P5 ≥ 90%（严格）</td><td>28</td><td>8</td><td>3.5×</td></tr><tr><td><strong>P5 ≥ 70%（主口径）</strong></td><td><strong>28</strong></td><td><strong>8</strong></td><td><strong>3.5×</strong></td></tr><tr><td>P5 ≥ 50%（地板）</td><td>56</td><td>14</td><td>4×</td></tr><tr><td>P50 ≥ 90%（中位）</td><td>40</td><td>10</td><td>4×</td></tr></tbody></table>
-<p>（随机组逐档 P5：L16=99.7%、L24=93.8%、L28=90.6%、L32=69.1%、L40=64.5%、L48=50.6%、L56=50.0%、L64=42.8%——<strong>渐进劣化</strong>；同步组 L8=98.8%、L10=62.2%、L12=53.5%、L14=54.2%、L16=48.6%——<strong>断崖坍塌</strong>；4 轮复测合并口径与图 16 一致，细档边界扫描已完成（sync [8,10)、rand [28,32)）。）</p>
+<p>（随机组逐档 P5：L16=99.7%、L24=93.8%、L28=90.6%、L32=69.1%、L40=64.5%、L48=50.6%、L56=50.0%、L64=42.8%——<strong>渐进劣化</strong>；同步组 L8=98.8%、L10=62.2%、L12=53.5%、L14=54.2%、L16=48.6%——<strong>断崖坍塌</strong>；4 轮复测合并口径与图 16 一致，细档边界扫描已完成（sync [8,10)、rand [28,32)）；关键档位的<strong>轮级范围</strong>（逐轮 P5）：sync N=8 98.6–101.8%（4 轮）、N=10 61.0–70.8%（3 轮）、N=16 47.0–49.6%（4 轮）；rand N=28 88.7–99.4%（2 轮）、N=32 62.2–90.8%（4 轮，轮间方差大——边界声明按最保守轮取 28）。）</p>
 <p><strong>四条结论。</strong></p>
 <ol><li><strong>盲目看平均利用率会灾难性超卖</strong>：同步组卖到 32 台时平均忙率仅 ~35%（"池子看起来很空"），</li></ol>
 <p>但每个 burst 窗口客户速率已跌到 25%。基于平均值的准入在真实的"集体定时行为"（备份、扫盘、定时任务）前毫无防线。</p>

diff --git a/changelog.html b/changelog.html
@@ -67,15 +67,17 @@ window.MathJax = {
 <div class="page">
 <header class="paper">
 <h1 class="title">识别、预测、行动：截断需求、相位结构与分域无回归约束下的 VPS 安全密度最大化</h1>
-<div class="subtitle">技术报告 · 初稿 v0.9.5</div>
+<div class="subtitle">技术报告 · 初稿 v0.9.6</div>
 <div class="authors">Kaixiang Nie</div>
 <div class="affil">Fujian Chuanzheng Communications College</div>
-<div class="meta">2026-10-13 · <a href="https://github.com/3257085208/Paper">GitHub</a> · <a href="changelog.html">修订记录</a> · <a href="report.html">汇报版</a> · <a href="report.pptx">汇报 PPT</a> · <a href="paper.pptx">论文 PPT 通读版</a> · 数据快照 v0.9.5</div>
+<div class="meta">2026-10-13 · <a href="https://github.com/3257085208/Paper">GitHub</a> · <a href="changelog.html">修订记录</a> · <a href="report.html">汇报版</a> · <a href="report.pptx">汇报 PPT</a> · <a href="paper.pptx">论文 PPT 通读版</a> · 数据快照 v0.9.6</div>
 </header>
 
 
 <main>
 <blockquote>面向"审稿意见 → 处置"的可追溯记录。版本号随重大修改递增；每版标注对应评审轮次。</blockquote>
+<h2 id="s-v0-9-6-2026-10-14-v3-返工回填-Phase-C-图-轮级范围">v0.9.6 — 2026-10-14（v3 返工回填 + Phase C 图 + 轮级范围）</h2>
+<ul><li><strong>BeroHost v3 返工全部回填</strong>（§4/§7，中英）：</li><li><strong>膝点</strong>：v3 返工（五台邻居全程在线，50 轮，新图 29）显示 L2 全净（ε=0 容量=2）、<strong>L3 越线率 45/50（中位 16.0 ms）</strong>，与 v2 重建口径（7%）分歧——<strong>ε=0 与 L4 坍塌两批一致、唯 L3 风险预算随宿主环境漂移</strong>（同忙率 87%），保守口径取 ε=0 的 2 台；新表并列两批。</li><li><strong>Censoring</strong>：v3cen（90 cycle @30%）——naive 1.54 vs 真值 5.59（低估 3.6×）、校正 |err| 中位 0.55 核（88/90 在 ±20%）、naive 90/90 &lt;70% 真值。</li><li><strong>三风暴</strong>：v3syn 26 轮——25/26 通过（HTTP 均值 4.82 ms）；<strong>1 轮降级状态违约 25.3 ms 如实报告</strong>；包络 29/30 失信上界修正为 ≈14.9%（返工前 11.7% 属乐观）。</li><li><strong>Phase C 图 22–26 新建</strong>（微周期配额 / KSM / FPR / zram 三臂 / IO 风暴）。</li><li><strong>轮级范围</strong>（§8.4）：sync N=8 98.6–101.8%、N=10 61–71%、N=16 47–50%；rand N=28 88.7–99.4%、N=32 62–91%（轮间方差大，边界取保守轮）。</li><li>SUBMISSION 清单 8 项全勾（形式化 bootstrap CI 留待终刷）。</li><li>版本 v0.9.6。</li></ul>
 <h2 id="s-v0-9-5-2026-10-14-多窗-PPC-收窄-降压编辑">v0.9.5 — 2026-10-14（多窗 PPC + 收窄/降压编辑）</h2>
 <ul><li><strong>多窗 PPC 复验</strong>（<code>ppc_multiwindow.py</code>）：3 小时稠密遥测切 5 个非重叠 30 分钟窗、每窗独立三段前向预测——<strong>方向命中 5/5</strong>（预测 P(峰&gt;8)=98–100% vs 实测超池 3.5–8.3%），峰值同阶（预测 P50 11–19 vs 实测 12–16；逐窗偏差 +5/±1/−2/−1/0 如实报告）；"单条短轨迹"局限由多窗复验部分缓解。</li><li><strong>收窄主线（2+2）</strong>：贡献表重构——主贡献 = 识别（截断可识别性）+ 行动（相位感知准入 + C5 干预 + 细档钉定）；支撑 = 容量预测（PPC 三工件）+ 资源效率账本（中英同步）。</li><li><strong>Ch9 降权</strong>：定位改为"支撑性扩展"（验证无回归原则跨资源扩展、非独立主张）；结论资源句收紧。</li><li><strong>理论 framing 降压</strong>："三个不可能性" → "三个构造性反例 + 最小充分观测集（经验）"（§3.6 标题/导语、摘要/引言组织命题，中英同步；附录 A 证明保留）。</li><li>版本 v0.9.5。</li></ul>
 <h2 id="s-v0-9-4-2026-10-14-show5-细扫-PPC-修订-9-全量回填">v0.9.4 — 2026-10-14（show5/细扫/PPC 修订/§9 全量回填：数据整合批）</h2>
